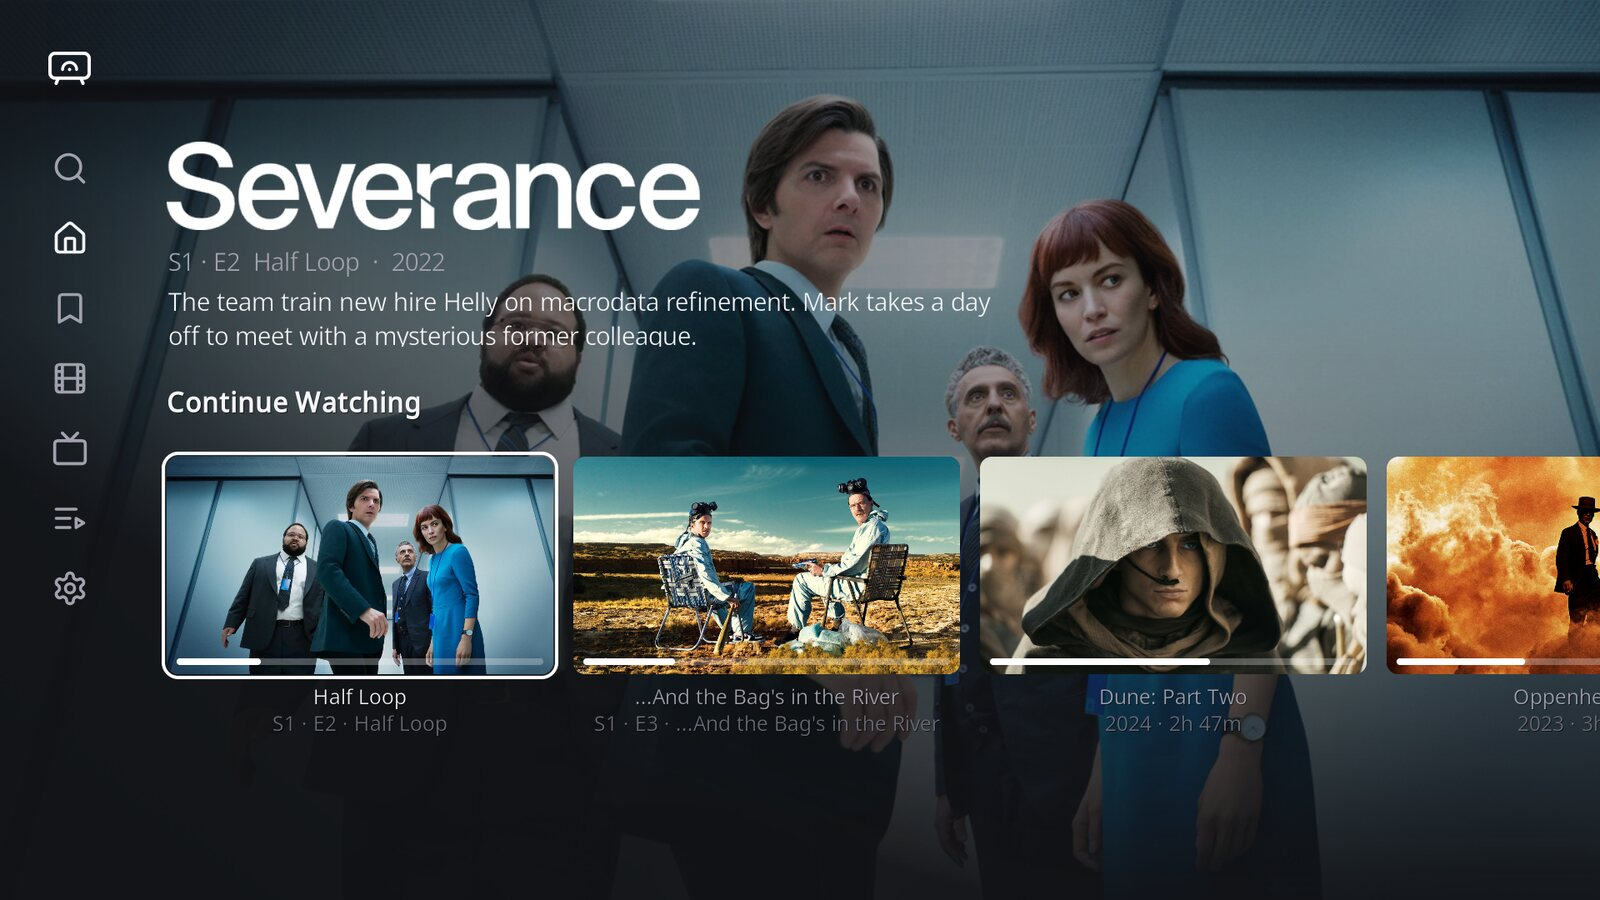
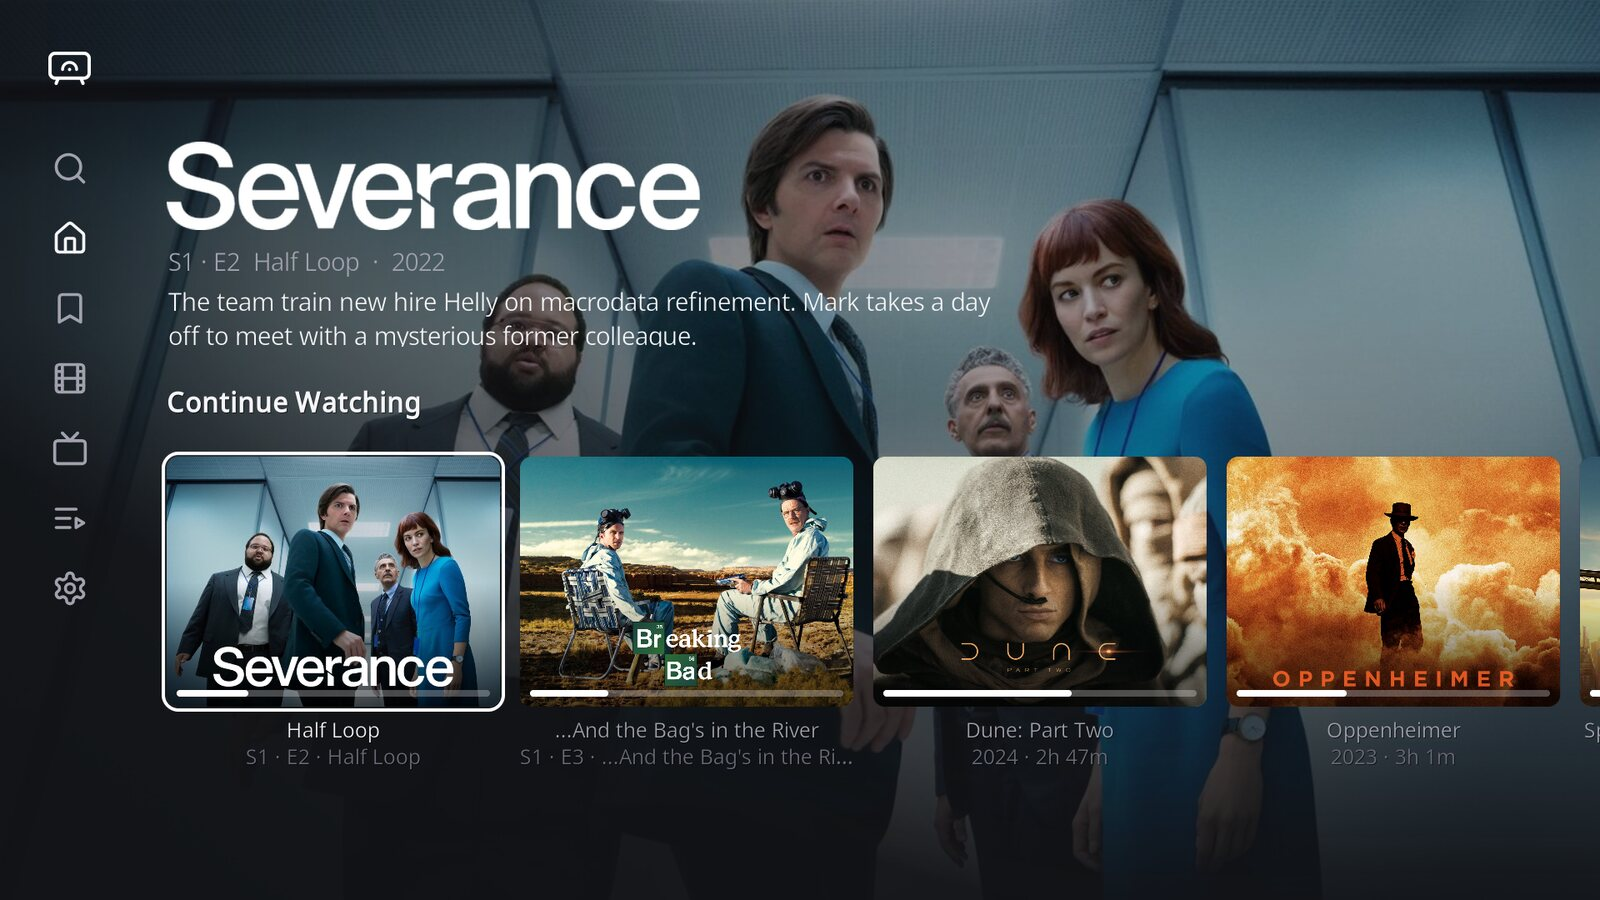
Retake the README's Home picture with Continue Watching as Backdrops (#42)
The shared screenshot library now sets Home's look (arc-media-server#491):
Continue Watching as Backdrops, each title's backdrop with its logo. The
add-on already follows the profile's Home layout, so only the picture, its
alt text and a change note change. Watch Together's picture shows the film
page, not Home, so it stays.

Changed region(s): [[0.0938, 0.4978, 1.0, 0.8711]]

diff --git a/docs/changes/2026-11-20-home-backdrops-screenshot.md b/docs/changes/2026-11-20-home-backdrops-screenshot.md
@@ -1,0 +1,25 @@
+# README Home picture: Continue Watching as Backdrops
+
+The shared screenshot library now sets Home's look: Continue Watching as Backdrops, each title's
+backdrop with its logo, saved as the admin's default Home layout (arc-media-server#491). The
+README's Home picture is retaken to match; its alt text says so.
+
+- **Only Home:** the other pictures don't show Home's rows. Watch Together's is the invite screen
+  over Dune: Part Two's page, so it stays as it was.
+- **No add-on change:** the add-on already reads the profile's Home layout from `/me/prefs`
+  (`home`, where Arc fills in the admin's default) and draws the `arc` style as backdrop cards
+  with the title's logo. Signed in as Jordan, Continue Watching showed Backdrops straight away.
+
+## Checks
+
+- The library's scratch Arc from arc-media-server's latest main (`node tools/screenshots.mjs
+  --serve`, `127.0.0.1:18299`), Kodi 20.5 under Xvfb (1920×1080) with a fresh profile, signed in
+  as Jordan with the library's household password, the same way as `tools/readme_shots.py`
+  (only the Home picture saved). I looked at the picture.
+- `python3 -m pytest -q` and `python3 tools/check.py`.
+
+No real hardware was used.
+
+## Logging
+
+None: the add-on is unchanged.

diff --git a/README.md b/README.md
@@ -18,7 +18,7 @@
 </p>
 
 <p align="center">
-  <img src="docs/screenshots/home.jpg" alt="Arc's Home in Kodi: Continue Watching, with Severance's artwork filling the screen" width="900">
+  <img src="docs/screenshots/home.jpg" alt="Arc's Home in Kodi: Continue Watching as Backdrops, each title's backdrop with its logo, with Severance's artwork filling the screen" width="900">
 </p>
 
 ## What is Arc for Kodi?
